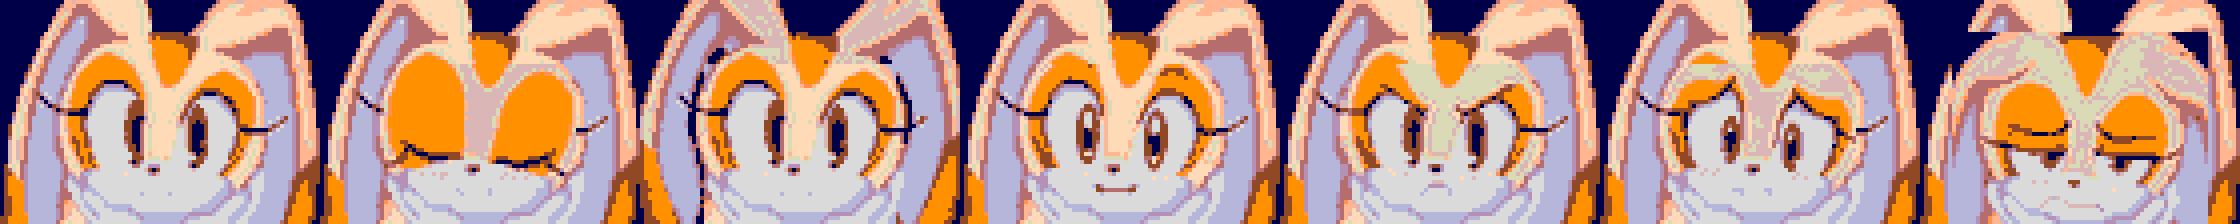
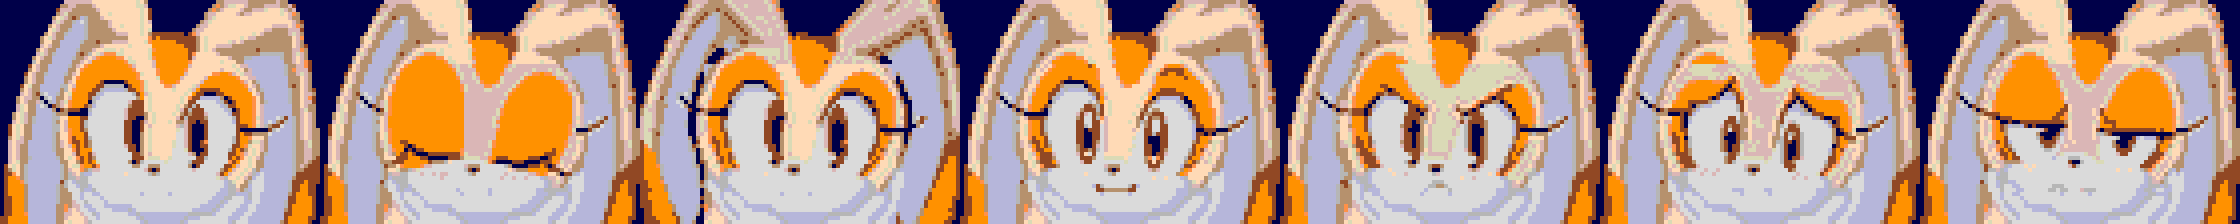
Fix Cream portrait and dialogue presentation

diff --git a/tools/build_hero_story_assets.py b/tools/build_hero_story_assets.py
@@ -109,8 +109,8 @@ def build_shared_palette(images: list[Image.Image]) -> list[tuple[int, int, int]
         else:
             sample.paste(image, (cursor, 0))
         cursor += image.width
-    quantized = sample.quantize(colors=13, method=Image.Quantize.MEDIANCUT)
-    raw = quantized.getpalette()[: 13 * 3]
+    quantized = sample.quantize(colors=12, method=Image.Quantize.MEDIANCUT)
+    raw = quantized.getpalette()[: 12 * 3]
 
     colors = [BACKGROUND]
     for offset in range(0, len(raw), 3):
@@ -118,13 +118,15 @@ def build_shared_palette(images: list[Image.Image]) -> list[tuple[int, int, int]
         snapped = tuple(genesis_channel(component) * 255 // 14 for component in color)
         if snapped not in colors:
             colors.append(snapped)
-        if len(colors) == 14:
+        if len(colors) == 13:
             break
     # Palette entries 14 and 15 are deliberately unused.  The original game
     # writes its white-flash effect into entry 14; keeping it out of Cream's
     # visible art prevents the face/ear texture corruption seen during flashes.
-    while len(colors) < 14:
+    while len(colors) < 13:
         colors.append(colors[-1])
+    # Entry 13 is a stable opaque blue for Dark Story's STAGE lettering.
+    colors.append((0, 68, 238))
     colors.extend((BACKGROUND, BACKGROUND))
     return colors
 
@@ -290,7 +292,7 @@ def write_portrait_assets() -> None:
         "Happy": prepare_portrait(SOURCE_DIR / "cream-happy.png", remove_white=True),
         "Upset": prepare_portrait(SOURCE_DIR / "cream-upset.png", remove_white=True),
         "Stress": prepare_portrait(SOURCE_DIR / "cream-stress.png"),
-        "Defeated": prepare_portrait(SOURCE_DIR / "cream-defeated.png"),
+        "Defeated": prepare_portrait(SOURCE_DIR / "cream-defeated-v2.png", remove_white=True),
     }
     images = [
         neutral,
@@ -299,7 +301,7 @@ def write_portrait_assets() -> None:
         replace_tile_regions(neutral, generated["Happy"], ((2, 2, 8, 6),)),
         replace_tile_regions(neutral, generated["Upset"], ((2, 2, 8, 6),)),
         replace_tile_regions(neutral, generated["Stress"], ((2, 2, 8, 6),)),
-        replace_tile_regions(neutral, generated["Defeated"], ((1, 1, 9, 7),)),
+        replace_tile_regions(neutral, generated["Defeated"], ((2, 2, 8, 6),)),
     ]
     palette = build_shared_palette(images)
     indexed = [remap(image, palette) for image in images]
@@ -349,11 +351,12 @@ def write_dialogue_assets() -> None:
 
     def mapping_words(include_mouth: bool) -> list[tuple[int, int, int, int]]:
         words: list[tuple[int, int, int, int]] = []
+        talking_bob = -1 if include_mouth else 0
         for (tile_x, tile_y, width, height), start in zip(pieces, starts):
             size = (((height - 1) << 2) | (width - 1)) << 8
-            words.append((tile_y * 8, size | 2, 0xE400 + start, -40 + tile_x * 8))
+            words.append((tile_y * 8 - 16 + talking_bob, size | 2, 0xE400 + start, 8 + tile_x * 8))
         if include_mouth:
-            words.append((56, 0x502, 0xE400 + mouth_start, -8))
+            words.append((39, 0x502, 0xE400 + mouth_start, 40))
         return words
 
     for suffix, include_mouth in (("Closed", False), ("Open", True)):
@@ -409,30 +412,23 @@ def write_menu_assets() -> None:
 
 
 def write_stage_label_assets() -> None:
-    # A dedicated palette keeps these colours stable while opponent portraits
-    # cycle the other palette lines on the Next Opponent screen.
-    label_palette = [
-        (0, 0, 0), (238, 238, 238), (0, 0, 68), (68, 136, 238), (238, 204, 0)
-    ] + [(0, 0, 0)] * 11
-    write_palette(label_palette, "Dark Story Stage Labels.pal")
-
-    # STAGE keeps the original two-tile height and gains a solid blue box.
+    # Palette entry 0 remains transparent: only the STAGE letters turn blue.
     stage_top: list[Image.Image] = []
     stage_bottom: list[Image.Image] = []
     for char in "STAGE":
-        full = Image.new("P", (8, 16), color=3)
+        full = Image.new("P", (8, 16), color=0)
         glyph = FONT_5X7[char]
         pixels = full.load()
         for y, row in enumerate(glyph):
             for x, bit in enumerate(row):
                 if bit == "1":
-                    pixels[x + 1, y + 4] = 4
+                    pixels[x + 1, y + 4] = 13
                     if x + 2 < 8 and y + 5 < 16:
-                        pixels[x + 2, y + 5] = 2
+                        pixels[x + 2, y + 5] = 12
         stage_top.append(full.crop((0, 0, 8, 8)))
         stage_bottom.append(full.crop((0, 8, 8, 16)))
 
-    cream = [label_tile(char, background=1, shadow=1, foreground=2) for char in "CREAM"]
+    cream = [label_tile(char, background=1, shadow=1, foreground=12) for char in "CREAM"]
     art = b"".join(image_to_tiles(tile) for tile in stage_top + stage_bottom + cream)
     (ART_DIR / "Dark Story Stage Labels.unc").write_bytes(art)
 
